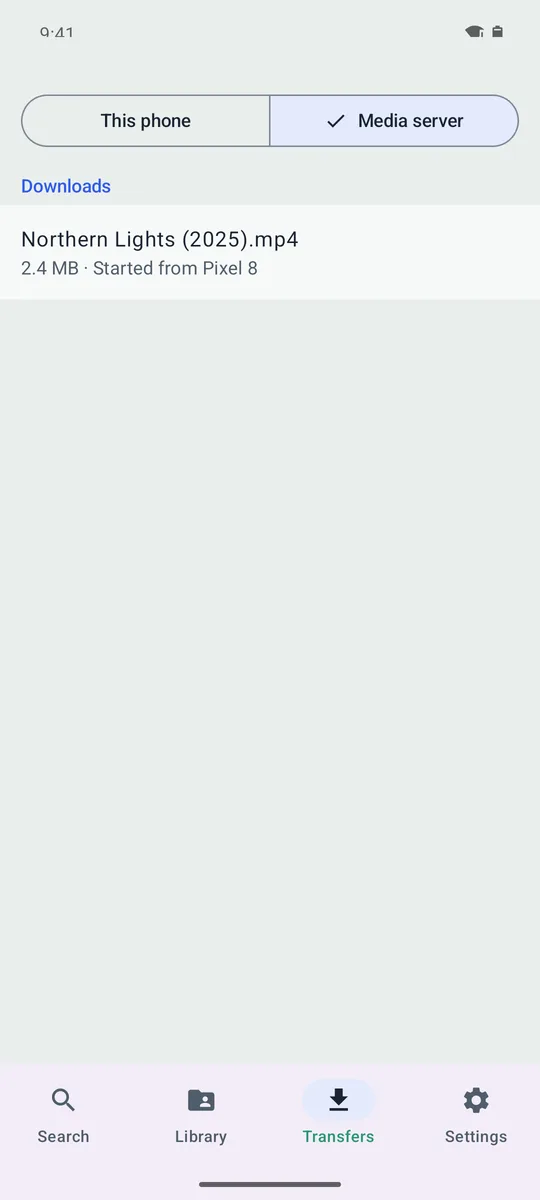
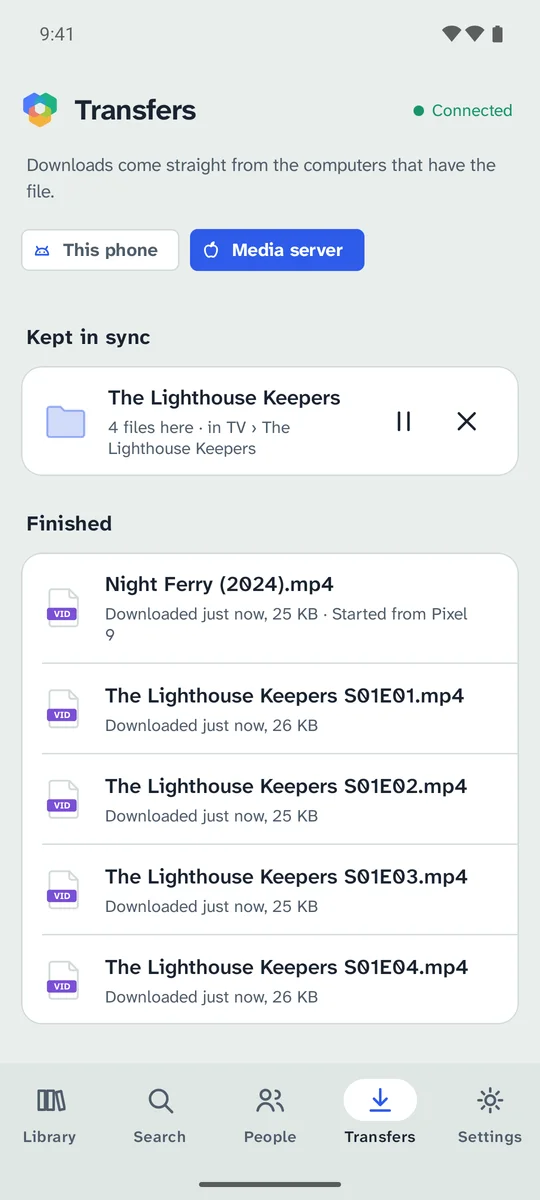
Version 0.1.11: new Android screenshots and guide
The site's four phone screenshots show the new design, from drawn demo
scenes instead of test patterns. The guide's Android section covers
People, Search's filters, the grid, previews and Start over.

Also: a computer named after its owner's first name ("Maya's iMac") is
no longer "Maya Lindqvist's Maya's iMac" on either client; the phone's
setup step names the desktop's Get a code button; the action sheet shows
a greyed-out computer's explanation in full.

diff --git a/site/guide.html b/site/guide.html
@@ -479,14 +479,15 @@
         <p>
           The Android app is for getting things: search everything shared with you, browse people’s
           folders with previews, download to your phone, keep a folder in sync (music from your
-          computer, say), and send downloads to your computers at home. It never shares the phone’s
-          own files.
+          computer, say), and send downloads to your computers at home. You can also find people and
+          connect with them. It looks and works like the computer app, but it never shares the
+          phone’s own files.
         </p>
         <figure class="phones">
           <img
             class="shot"
             src="screenshots/android-browse.webp"
-            alt="Browsing a folder of lake trip photos on Maya’s iMac from the phone"
+            alt="Browsing Maya’s Iceland photos from the phone, as a grid of thumbnails"
             loading="lazy"
             width="540"
             height="1200"
@@ -543,9 +544,23 @@
         <h3>Using it</h3>
         <ul>
           <li>
-            <b>Search</b> and <b>Library</b> work like on a computer. Tap a file or folder for what
-            you can do with it: <b>Download to this phone</b>, <b>Keep in sync on this phone</b>,
-            and the same for each of your computers that takes requests.
+            <b>Library</b> lists everyone who shares with you and their computers. Inside a folder,
+            switch between a grid of thumbnails and a list with the button at the top right.
+          </li>
+          <li>
+            <b>Search</b> has the same filters as on a computer: kind, size, who it’s from (anyone,
+            your connections, or people you’ve verified) and only files on computers that were
+            around lately.
+          </li>
+          <li>
+            Tap a file for a preview and what you can do with it: <b>Download to this phone</b>, and
+            the same for each of your computers that takes requests. A search result can also show
+            the folder it’s in. In a folder, <b>Download folder</b> and <b>Keep in sync</b> do the
+            same for the whole folder.
+          </li>
+          <li>
+            <b>People</b> shows requests to connect, lets you find people on your hub, and verify
+            your connections by comparing safety codes, as on a computer.
           </li>
           <li>
             Downloads go to <code>Download/Communal</code> and show up in your gallery and music
@@ -554,7 +569,8 @@
           </li>
           <li>
             <b>Transfers</b> shows the phone’s downloads and synced folders, or one of your
-            computers’ downloads and subscriptions.
+            computers’ downloads and subscriptions, with speeds and, when a download can’t start,
+            what to try.
           </li>
           <li>
             Phones can’t keep running in the background like a computer, so synced folders catch up
@@ -564,6 +580,11 @@
           <li>
             The app checks for a new version once a day and offers to download it. Installing it
             keeps your account and settings.
+          </li>
+          <li>
+            If the phone is removed from your account on another device, the app says so and offers
+            <b>Start over</b>. That clears the app (your downloaded files stay) so you can link it
+            again with a new code.
           </li>
         </ul>
         <p class="muted">

diff --git a/apps/desktop/src/renderer/src/format.ts b/apps/desktop/src/renderer/src/format.ts
@@ -89,9 +89,12 @@ export function hubUrl(input: string): string {
 
 /**
  * "Maya’s iMac" from an owner and a device name, without doubling the owner when the device
- * name already starts with it ("Maya’s iMac", "maya-laptop").
+ * name already starts with their name or first name ("Maya’s iMac" for Maya Lindqvist,
+ * "maya-laptop"). A first name that only begins a longer word doesn't count ("Al" in "Alpha").
  */
 export function computerName(owner: string, device: string): string {
-  const o = owner.trim().toLowerCase();
-  return o && device.trim().toLowerCase().startsWith(o) ? device : `${owner}’s ${device}`;
+  const d = device.trim().toLowerCase();
+  const names = [owner.trim(), owner.trim().split(/\s+/)[0] ?? ''].map((n) => n.toLowerCase());
+  const named = names.some((n) => n && d.startsWith(n) && !/\p{L}/u.test(d.charAt(n.length)));
+  return named ? device : `${owner}’s ${device}`;
 }

diff --git a/apps/android/app/src/main/java/io/github/hypnopompia/communal/ui/Format.kt b/apps/android/app/src/main/java/io/github/hypnopompia/communal/ui/Format.kt
@@ -55,11 +55,13 @@ fun ago(unixSeconds: Long): String {
 
 /**
  * "Maya’s iMac" from an owner and a device name, without doubling the owner when the device
- * name already starts with it, as the desktop's `computerName()`.
+ * name already starts with their name or first name, as the desktop's `computerName()`.
  */
 fun computerName(owner: String, device: String): String {
-    val o = owner.trim().lowercase()
-    return if (o.isNotEmpty() && device.trim().lowercase().startsWith(o)) device else "$owner’s $device"
+    val d = device.trim().lowercase()
+    val names = listOf(owner.trim(), owner.trim().split(Regex("\\s+")).first()).map { it.lowercase() }
+    val named = names.any { n -> n.isNotEmpty() && d.startsWith(n) && d.getOrNull(n.length)?.isLetter() != true }
+    return if (named) device else "$owner’s $device"
 }
 
 /** "4032×3024, 3:42, Artist, 4.2 MB", as the desktop's `describe()`. */

diff --git a/apps/android/app/src/main/java/io/github/hypnopompia/communal/ui/Setup.kt b/apps/android/app/src/main/java/io/github/hypnopompia/communal/ui/Setup.kt
@@ -79,7 +79,7 @@ fun Setup(model: AppModel, snackbar: SnackbarHostState) {
                     Column(Modifier.padding(16.dp), verticalArrangement = Arrangement.spacedBy(14.dp)) {
                         if (linking) {
                             Steps(
-                                "On your computer, open Communal › Settings › Devices › Add a computer. It shows a code.",
+                                "On your computer, open Communal › Settings › Devices and choose Get a code.",
                                 "Type the hub’s address and that code here.",
                                 "Approve this phone on your computer.",
                             )

diff --git a/apps/desktop/src/renderer/src/format.test.ts b/apps/desktop/src/renderer/src/format.test.ts
@@ -48,6 +48,9 @@ describe('computer names', () => {
     expect(computerName('Maya', 'iMac')).toBe('Maya’s iMac');
     expect(computerName('Maya', 'Maya’s iMac')).toBe('Maya’s iMac');
     expect(computerName('Maya', 'maya-laptop')).toBe('maya-laptop');
+    expect(computerName('Maya Lindqvist', 'Maya’s iMac')).toBe('Maya’s iMac');
+    expect(computerName('Maya Lindqvist', 'iMac')).toBe('Maya Lindqvist’s iMac');
+    expect(computerName('Al', 'Alpha')).toBe('Al’s Alpha');
   });
 });
 

diff --git a/apps/android/app/src/main/java/io/github/hypnopompia/communal/ui/Components.kt b/apps/android/app/src/main/java/io/github/hypnopompia/communal/ui/Components.kt
@@ -302,6 +302,8 @@ private fun Option(icon: ImageVector, title: String, sub: String, enabled: Boole
         title,
         Modifier.padding(horizontal = 8.dp),
         sub = sub,
+        // A greyed-out computer explains how to turn it on: let that read in full.
+        subLines = 4,
         enabled = enabled,
         onClick = onClick,
         leading = {

diff --git a/docs/progress.md b/docs/progress.md
@@ -96,6 +96,16 @@ These are fine for now. Fix them if they start to bite.
 - **Retention for devices not seen for a long time** (ADR 0015), as a hub setting in Manage (ADR 0020).
 - **From HANDOFF §15:** hubs caching thumbnails of hub-wide files.
 
+## Site: new Android screenshots, 0.1.11 (2026-10-15)
+
+- **Screenshots:** the four phone shots (`site/screenshots/android-*.webp`) were retaken in the new design, on the emulator with the system's demo status bar (9:41).
+  - **Demo setup:** a dev hub, Alice (the phone's account) with a MacBook and a Media server that has Movies and TV destinations, and Maya sharing photos, music, videos and a show with the hub.
+  - **Pictures:** the photos and video frames are drawn scenes (sea, mountains, a ferry, a lighthouse), made with ffmpeg's `geq`, because plain gradients and test patterns looked fake.
+- **The guide's Android section** now covers People, Search's filters, the grid, previews, folder actions, transfer tips and Start over.
+- **`computerName()`**, on both clients, also skips the owner's first name ("Maya’s iMac" for Maya Lindqvist, no longer "Maya Lindqvist’s Maya’s iMac"). A first name that only begins a longer word doesn't count.
+- **The phone's setup step** names the desktop's button (Settings › Devices › Get a code).
+- **The action sheet** shows a greyed-out computer's explanation in full.
+
 ## Android: Start over for a removed phone, and "Communal Dev" (2026-10-15)
 
 The owner mistook the debug build, which had the same name and icon as the release app, for a reset release app. They removed the release app's device from their account, so its identity can never sign in again.
